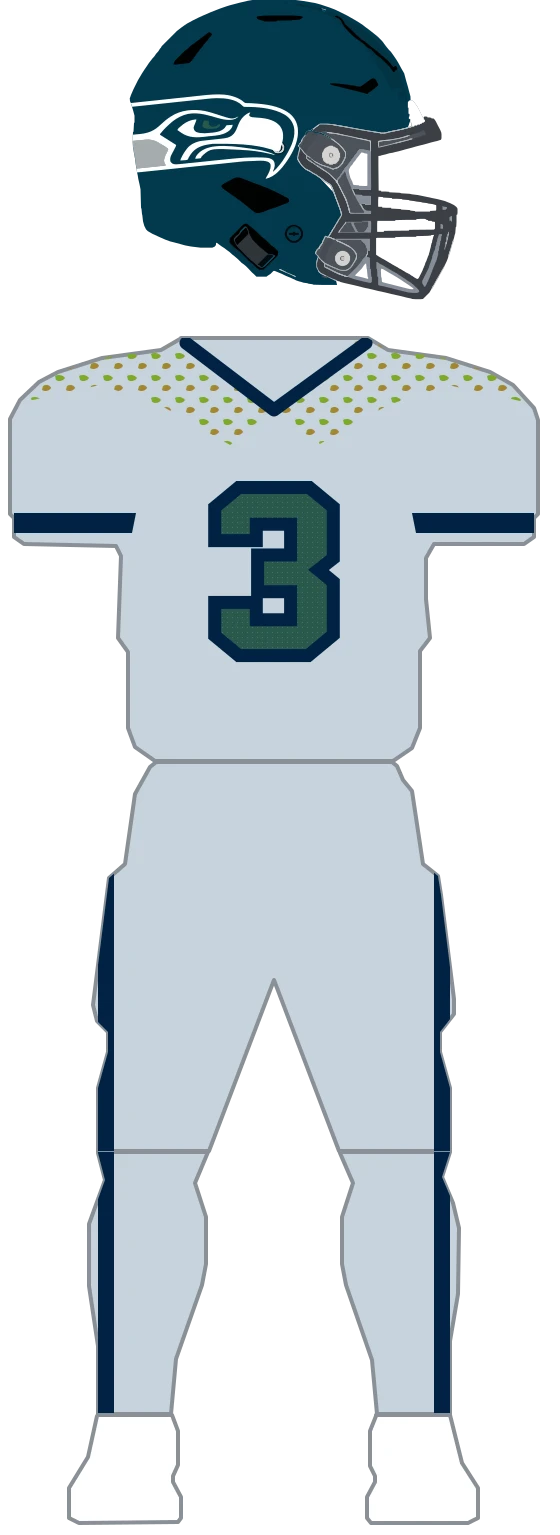
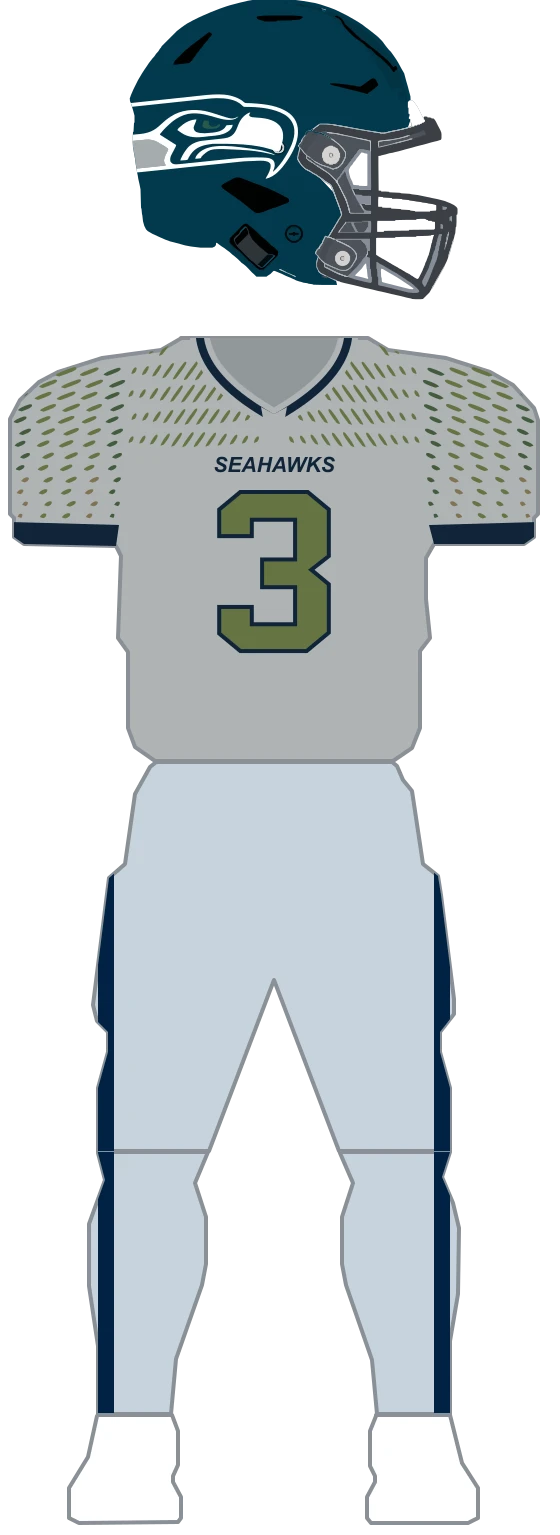
design(uniforms): refine Seahawks Rivalries jersey (DEP-518) (#852)

Changed region(s): [[0.0, 0.2143, 0.9714, 0.5205]]

diff --git a/web/lib/uniforms/teams/seahawks-rivalries-jersey.ts b/web/lib/uniforms/teams/seahawks-rivalries-jersey.ts
@@ -1,0 +1,106 @@
+// Approved Seahawks 2025 Rivalries jersey (DEP-518), reconstructed by Astra from
+// Luna's official-detail and retail-placement reference packet. Baked vector paths keep
+// rendering independent of fonts, authoring tools, and image-generation services.
+// Sources: https://www.seahawks.com/photos/2025-seahawks-nike-rivalries-uniform-detail-photos
+// https://www.seahawks.com/news/2025-seahawks-nike-rivalries-uniform-announcement
+// Hexes approximate the photographed Wolf Grey, College Navy, and reflective olive print;
+// the neck grey represents the shaded opening. These are approved flat-art approximations,
+// not official color specifications. The wordmark is outlined Arial Bold Italic, 21px;
+// the archive's canonical 3 intentionally omits the repeating 12 microtexture.
+import { JERSEY_NUMBER_THREE } from '../jersey-art';
+import type { UniformPart } from './parts';
+
+export const SEAHAWKS_RIVALRIES_JERSEY_PALETTE = {
+  rivalriesJerseyNeck: '#92989B',
+  rivalriesJerseyGrey: '#AFB3B5',
+  rivalriesJerseyNavy: '#102438',
+  rivalriesJerseyOlive: '#667443',
+  rivalriesJerseyGreen: '#435B3D',
+  rivalriesJerseyBronze: '#817350',
+};
+
+export const SEAHAWKS_RIVALRIES_JERSEY: UniformPart = {
+  base: 'rivalriesJerseyGrey',
+  layers: [
+    {
+      id: 'seahawks-rivalries-soundwave-0',
+      surface: 'jersey',
+      kind: 'fill',
+      clip: true,
+      fill: 'rivalriesJerseyOlive',
+      d: 'M148.51,396.19 Q148.36,393.53 150.88,390.31 Q153.19,388.31 153.49,389.81 Q154.25,391.68 151.74,394.90 Z M158.98,397.37 Q158.83,394.72 163.21,389.12 Q165.51,387.12 165.82,388.63 Q166.58,390.49 162.21,396.09 Z M169.07,399.05 Q168.93,396.40 175.92,387.45 Q178.22,385.44 178.53,386.95 Q179.29,388.82 172.30,397.76 Z M179.08,400.83 Q178.94,398.17 188.71,385.67 Q191.01,383.67 191.32,385.17 Q192.08,387.04 182.31,399.54 Z M151.54,419.14 Q151.40,416.49 153.85,413.35 Q156.15,411.35 156.46,412.86 Q157.22,414.72 154.77,417.86 Z M162.11,420.21 Q161.96,417.56 166.08,412.29 Q168.39,410.28 168.69,411.79 Q169.46,413.65 165.33,418.93 Z M172.33,421.72 Q172.18,419.07 178.66,410.78 Q180.97,408.77 181.27,410.28 Q182.03,412.14 175.56,420.43 Z M182.48,423.32 Q182.33,420.67 191.31,409.18 Q193.62,407.17 193.92,408.68 Q194.68,410.54 185.71,422.03 Z M192.84,424.65 Q192.70,421.99 203.75,407.85 Q206.05,405.85 206.36,407.35 Q207.12,409.22 196.07,423.36 Z M203.66,425.40 Q203.51,422.74 215.73,407.10 Q218.04,405.10 218.34,406.60 Q219.11,408.47 206.88,424.11 Z M215.06,425.40 Q214.91,422.74 227.13,407.10 Q229.44,405.10 229.74,406.60 Q230.51,408.47 218.28,424.11 Z M148.58,442.10 Q148.43,439.45 150.81,436.40 Q153.12,434.39 153.42,435.90 Q154.19,437.76 151.80,440.81 Z M159.23,443.05 Q159.09,440.40 162.95,435.45 Q165.26,433.44 165.57,434.95 Q166.33,436.81 162.46,441.76 Z M169.59,444.39 Q169.44,441.74 175.40,434.11 Q177.71,432.10 178.01,433.61 Q178.78,435.47 172.81,443.10 Z M179.88,445.81 Q179.73,443.16 187.91,432.68 Q190.22,430.68 190.52,432.19 Q191.29,434.05 183.10,444.53 Z M190.35,446.99 Q190.21,444.34 200.24,431.50 Q202.54,429.50 202.85,431.01 Q203.61,432.87 193.58,445.71 Z M201.23,447.66 Q201.09,445.01 212.16,430.84 Q214.46,428.83 214.77,430.34 Q215.53,432.21 204.46,446.37 Z M212.63,447.66 Q212.49,445.01 223.56,430.84 Q225.86,428.83 226.17,430.34 Q226.93,432.21 215.86,446.37 Z M224.55,446.99 Q224.41,444.34 234.44,431.50 Q236.74,429.50 237.05,431.01 Q237.81,432.87 227.78,445.71 Z M236.88,445.81 Q236.73,443.16 244.91,432.68 Q247.22,430.68 247.52,432.19 Q248.29,434.05 240.10,444.53 Z M249.39,444.39 Q249.24,441.74 255.20,434.11 Q257.51,432.10 257.81,433.61 Q258.58,435.47 252.61,443.10 Z M151.61,465.06 Q151.46,462.40 153.78,459.44 Q156.09,457.44 156.39,458.94 Q157.15,460.81 154.84,463.77 Z M162.36,465.89 Q162.21,463.24 165.83,458.61 Q168.14,456.60 168.44,458.11 Q169.20,459.98 165.59,464.60 Z M172.84,467.06 Q172.70,464.41 178.14,457.44 Q180.45,455.43 180.76,456.94 Q181.52,458.80 176.07,465.78 Z M183.27,468.31 Q183.12,465.65 190.52,456.19 Q192.82,454.19 193.13,455.69 Q193.89,457.56 186.50,467.02 Z M193.87,469.34 Q193.72,466.69 202.72,455.16 Q205.03,453.15 205.33,454.66 Q206.10,456.53 197.09,468.05 Z M204.81,469.92 Q204.66,467.27 214.58,454.58 Q216.89,452.57 217.19,454.08 Q217.95,455.94 208.04,468.64 Z M216.21,469.92 Q216.06,467.27 225.98,454.58 Q228.29,452.57 228.59,454.08 Q229.35,455.94 219.44,468.64 Z M228.07,469.34 Q227.92,466.69 236.92,455.16 Q239.23,453.15 239.53,454.66 Q240.30,456.53 231.29,468.05 Z M240.27,468.31 Q240.12,465.65 247.52,456.19 Q249.82,454.19 250.13,455.69 Q250.89,457.56 243.50,467.02 Z M252.64,467.06 Q252.50,464.41 257.94,457.44 Q260.25,455.43 260.56,456.94 Q261.32,458.80 255.87,465.78 Z M264.96,465.89 Q264.81,463.24 268.43,458.61 Q270.74,456.60 271.04,458.11 Q271.80,459.98 268.19,464.60 Z M277.01,465.06 Q276.86,462.40 279.18,459.44 Q281.49,457.44 281.79,458.94 Q282.55,460.81 280.24,463.77 Z M148.64,488.02 Q148.50,485.36 150.75,482.48 Q153.05,480.48 153.36,481.98 Q154.12,483.85 151.87,486.73 Z M159.49,488.73 Q159.34,486.07 162.70,481.77 Q165.01,479.77 165.31,481.27 Q166.08,483.14 162.71,487.44 Z M170.10,489.73 Q169.95,487.08 174.89,480.77 Q177.19,478.76 177.50,480.27 Q178.26,482.13 173.33,488.45 Z M180.67,490.80 Q180.52,488.15 187.12,479.70 Q189.43,477.69 189.73,479.20 Q190.50,481.07 183.89,489.51 Z M191.38,491.68 Q191.23,489.03 199.21,478.81 Q201.52,476.81 201.82,478.32 Q202.59,480.18 194.60,490.40 Z M202.39,492.18 Q202.24,489.53 211.00,478.31 Q213.31,476.31 213.61,477.82 Q214.38,479.68 205.61,490.90 Z M213.79,492.18 Q213.64,489.53 222.40,478.31 Q224.71,476.31 225.01,477.82 Q225.78,479.68 217.01,490.90 Z M225.58,491.68 Q225.43,489.03 233.41,478.81 Q235.72,476.81 236.02,478.32 Q236.79,480.18 228.80,490.40 Z M237.67,490.80 Q237.52,488.15 244.12,479.70 Q246.43,477.69 246.73,479.20 Q247.50,481.07 240.89,489.51 Z M249.90,489.73 Q249.75,487.08 254.69,480.77 Q256.99,478.76 257.30,480.27 Q258.06,482.13 253.13,488.45 Z M262.09,488.73 Q261.94,486.07 265.30,481.77 Q267.61,479.77 267.91,481.27 Q268.68,483.14 265.31,487.44 Z M274.04,488.02 Q273.90,485.36 276.15,482.48 Q278.45,480.48 278.76,481.98 Q279.52,483.85 277.27,486.73 Z M53.49,420.09 Q54.73,417.43 69.94,412.48 Q73.02,412.24 72.51,413.91 Q72.22,416.26 57.01,421.21 Z M75.54,420.40 Q76.78,417.74 93.90,412.17 Q96.97,411.93 96.46,413.60 Q96.17,415.95 79.06,421.52 Z M99.49,420.09 Q100.73,417.43 115.94,412.48 Q119.02,412.24 118.51,413.91 Q118.22,416.26 103.01,421.21 Z M59.01,431.92 Q60.25,429.26 74.42,424.65 Q77.50,424.41 76.99,426.08 Q76.70,428.43 62.53,433.04 Z M81.06,432.23 Q82.30,429.57 98.37,424.34 Q101.45,424.10 100.94,425.77 Q100.65,428.12 84.58,433.35 Z M105.01,431.92 Q106.25,429.26 120.42,424.65 Q123.50,424.41 122.99,426.08 Q122.70,428.43 108.53,433.04 Z M54.54,443.75 Q55.77,441.09 68.90,436.82 Q71.97,436.58 71.46,438.25 Q71.18,440.60 58.05,444.87 Z M76.58,444.06 Q77.82,441.40 92.85,436.51 Q95.92,436.27 95.42,437.94 Q95.13,440.29 80.10,445.18 Z M100.54,443.75 Q101.77,441.09 114.90,436.82 Q117.97,436.58 117.46,438.25 Q117.18,440.60 104.05,444.87 Z M60.06,455.58 Q61.30,452.92 73.37,448.99 Q76.45,448.75 75.94,450.42 Q75.65,452.77 63.58,456.70 Z M82.11,455.89 Q83.35,453.23 97.33,448.68 Q100.40,448.44 99.89,450.11 Q99.61,452.46 85.63,457.01 Z M106.06,455.58 Q107.30,452.92 119.37,448.99 Q122.45,448.75 121.94,450.42 Q121.65,452.77 109.58,456.70 Z M55.58,467.41 Q56.82,464.75 67.85,461.16 Q70.93,460.92 70.42,462.59 Q70.13,464.94 59.10,468.53 Z M77.63,467.72 Q78.87,465.06 91.80,460.85 Q94.88,460.61 94.37,462.28 Q94.08,464.63 81.15,468.84 Z M101.58,467.41 Q102.82,464.75 113.85,461.16 Q116.93,460.92 116.42,462.59 Q116.13,464.94 105.10,468.53 Z M61.10,479.24 Q62.34,476.58 72.33,473.33 Q75.40,473.09 74.90,474.76 Q74.61,477.11 64.62,480.36 Z M83.15,479.55 Q84.39,476.89 96.28,473.02 Q99.35,472.78 98.85,474.45 Q98.56,476.80 86.67,480.67 Z M107.10,479.24 Q108.34,476.58 118.33,473.33 Q121.40,473.09 120.90,474.76 Q120.61,477.11 110.62,480.36 Z M56.63,491.07 Q57.87,488.41 66.81,485.50 Q69.88,485.26 69.37,486.93 Q69.09,489.28 60.15,492.19 Z M78.68,491.38 Q79.91,488.72 90.76,485.19 Q93.83,484.95 93.32,486.62 Q93.04,488.97 82.19,492.50 Z M102.63,491.07 Q103.87,488.41 112.81,485.50 Q115.88,485.26 115.37,486.93 Q115.09,489.28 106.15,492.19 Z M62.15,502.90 Q63.39,500.24 71.28,497.67 Q74.36,497.43 73.85,499.10 Q73.56,501.45 65.67,504.02 Z M84.20,503.21 Q85.44,500.55 95.23,497.36 Q98.31,497.12 97.80,498.79 Q97.51,501.14 87.72,504.33 Z M108.15,502.90 Q109.39,500.24 117.28,497.67 Q120.36,497.43 119.85,499.10 Q119.56,501.45 111.67,504.02 Z M57.67,514.73 Q58.91,512.07 65.76,509.84 Q68.83,509.60 68.33,511.27 Q68.04,513.62 61.19,515.85 Z M79.72,515.04 Q80.96,512.38 89.71,509.53 Q92.79,509.29 92.28,510.96 Q91.99,513.31 83.24,516.16 Z M103.67,514.73 Q104.91,512.07 111.76,509.84 Q114.83,509.60 114.33,511.27 Q114.04,513.62 107.19,515.85 Z M63.20,526.56 Q64.43,523.90 70.24,522.01 Q73.31,521.77 72.80,523.44 Q72.52,525.79 66.71,527.68 Z M85.25,526.87 Q86.48,524.21 94.19,521.70 Q97.26,521.46 96.75,523.13 Q96.47,525.48 88.76,527.99 Z M58.72,538.39 Q59.96,535.73 64.71,534.18 Q67.79,533.94 67.28,535.61 Q66.99,537.96 62.24,539.51 Z M80.77,538.70 Q82.01,536.04 88.66,533.87 Q91.74,533.63 91.23,535.30 Q90.94,537.65 84.29,539.82 Z M64.24,550.22 Q65.48,547.56 69.19,546.35 Q72.26,546.11 71.76,547.78 Q71.47,550.13 67.76,551.34 Z M86.29,550.53 Q87.53,547.87 93.14,546.04 Q96.22,545.80 95.71,547.47 Q95.42,549.82 89.81,551.65 Z M59.77,562.05 Q61.00,559.39 63.67,558.52 Q66.74,558.28 66.23,559.95 Q65.95,562.30 63.28,563.17 Z M81.82,562.36 Q83.05,559.70 87.62,558.21 Q90.69,557.97 90.18,559.64 Q89.90,561.99 85.33,563.48 Z M439.49,396.19 Q439.64,393.53 437.12,390.31 Q434.81,388.31 434.51,389.81 Q433.75,391.68 436.26,394.90 Z M429.02,397.37 Q429.17,394.72 424.79,389.12 Q422.49,387.12 422.18,388.63 Q421.42,390.49 425.79,396.09 Z M418.93,399.05 Q419.07,396.40 412.08,387.45 Q409.78,385.44 409.47,386.95 Q408.71,388.82 415.70,397.76 Z M408.92,400.83 Q409.06,398.17 399.29,385.67 Q396.99,383.67 396.68,385.17 Q395.92,387.04 405.69,399.54 Z M436.46,419.14 Q436.60,416.49 434.15,413.35 Q431.85,411.35 431.54,412.86 Q430.78,414.72 433.23,417.86 Z M425.89,420.21 Q426.04,417.56 421.92,412.29 Q419.61,410.28 419.31,411.79 Q418.54,413.65 422.67,418.93 Z M415.67,421.72 Q415.82,419.07 409.34,410.78 Q407.03,408.77 406.73,410.28 Q405.97,412.14 412.44,420.43 Z M405.52,423.32 Q405.67,420.67 396.69,409.18 Q394.38,407.17 394.08,408.68 Q393.32,410.54 402.29,422.03 Z M395.16,424.65 Q395.30,421.99 384.25,407.85 Q381.95,405.85 381.64,407.35 Q380.88,409.22 391.93,423.36 Z M384.34,425.40 Q384.49,422.74 372.27,407.10 Q369.96,405.10 369.66,406.60 Q368.89,408.47 381.12,424.11 Z M372.94,425.40 Q373.09,422.74 360.87,407.10 Q358.56,405.10 358.26,406.60 Q357.49,408.47 369.72,424.11 Z M439.42,442.10 Q439.57,439.45 437.19,436.40 Q434.88,434.39 434.58,435.90 Q433.81,437.76 436.20,440.81 Z M428.77,443.05 Q428.91,440.40 425.05,435.45 Q422.74,433.44 422.43,434.95 Q421.67,436.81 425.54,441.76 Z M418.41,444.39 Q418.56,441.74 412.60,434.11 Q410.29,432.10 409.99,433.61 Q409.22,435.47 415.19,443.10 Z M408.12,445.81 Q408.27,443.16 400.09,432.68 Q397.78,430.68 397.48,432.19 Q396.71,434.05 404.90,444.53 Z M397.65,446.99 Q397.79,444.34 387.76,431.50 Q385.46,429.50 385.15,431.01 Q384.39,432.87 394.42,445.71 Z M386.77,447.66 Q386.91,445.01 375.84,430.84 Q373.54,428.83 373.23,430.34 Q372.47,432.21 383.54,446.37 Z M375.37,447.66 Q375.51,445.01 364.44,430.84 Q362.14,428.83 361.83,430.34 Q361.07,432.21 372.14,446.37 Z M363.45,446.99 Q363.59,444.34 353.56,431.50 Q351.26,429.50 350.95,431.01 Q350.19,432.87 360.22,445.71 Z M351.12,445.81 Q351.27,443.16 343.09,432.68 Q340.78,430.68 340.48,432.19 Q339.71,434.05 347.90,444.53 Z M338.61,444.39 Q338.76,441.74 332.80,434.11 Q330.49,432.10 330.19,433.61 Q329.42,435.47 335.39,443.10 Z M436.39,465.06 Q436.54,462.40 434.22,459.44 Q431.91,457.44 431.61,458.94 Q430.85,460.81 433.16,463.77 Z M425.64,465.89 Q425.79,463.24 422.17,458.61 Q419.86,456.60 419.56,458.11 Q418.80,459.98 422.41,464.60 Z M415.16,467.06 Q415.30,464.41 409.86,457.44 Q407.55,455.43 407.24,456.94 Q406.48,458.80 411.93,465.78 Z M404.73,468.31 Q404.88,465.65 397.48,456.19 Q395.18,454.19 394.87,455.69 Q394.11,457.56 401.50,467.02 Z M394.13,469.34 Q394.28,466.69 385.28,455.16 Q382.97,453.15 382.67,454.66 Q381.90,456.53 390.91,468.05 Z M383.19,469.92 Q383.34,467.27 373.42,454.58 Q371.11,452.57 370.81,454.08 Q370.05,455.94 379.96,468.64 Z M371.79,469.92 Q371.94,467.27 362.02,454.58 Q359.71,452.57 359.41,454.08 Q358.65,455.94 368.56,468.64 Z M359.93,469.34 Q360.08,466.69 351.08,455.16 Q348.77,453.15 348.47,454.66 Q347.70,456.53 356.71,468.05 Z M347.73,468.31 Q347.88,465.65 340.48,456.19 Q338.18,454.19 337.87,455.69 Q337.11,457.56 344.50,467.02 Z M335.36,467.06 Q335.50,464.41 330.06,457.44 Q327.75,455.43 327.44,456.94 Q326.68,458.80 332.13,465.78 Z M323.04,465.89 Q323.19,463.24 319.57,458.61 Q317.26,456.60 316.96,458.11 Q316.20,459.98 319.81,464.60 Z M310.99,465.06 Q311.14,462.40 308.82,459.44 Q306.51,457.44 306.21,458.94 Q305.45,460.81 307.76,463.77 Z M439.36,488.02 Q439.50,485.36 437.25,482.48 Q434.95,480.48 434.64,481.98 Q433.88,483.85 436.13,486.73 Z M428.51,488.73 Q428.66,486.07 425.30,481.77 Q422.99,479.77 422.69,481.27 Q421.92,483.14 425.29,487.44 Z M417.90,489.73 Q418.05,487.08 413.11,480.77 Q410.81,478.76 410.50,480.27 Q409.74,482.13 414.67,488.45 Z M407.33,490.80 Q407.48,488.15 400.88,479.70 Q398.57,477.69 398.27,479.20 Q397.50,481.07 404.11,489.51 Z M396.62,491.68 Q396.77,489.03 388.79,478.81 Q386.48,476.81 386.18,478.32 Q385.41,480.18 393.40,490.40 Z M385.61,492.18 Q385.76,489.53 377.00,478.31 Q374.69,476.31 374.39,477.82 Q373.62,479.68 382.39,490.90 Z M374.21,492.18 Q374.36,489.53 365.60,478.31 Q363.29,476.31 362.99,477.82 Q362.22,479.68 370.99,490.90 Z M362.42,491.68 Q362.57,489.03 354.59,478.81 Q352.28,476.81 351.98,478.32 Q351.21,480.18 359.20,490.40 Z M350.33,490.80 Q350.48,488.15 343.88,479.70 Q341.57,477.69 341.27,479.20 Q340.50,481.07 347.11,489.51 Z M338.10,489.73 Q338.25,487.08 333.31,480.77 Q331.01,478.76 330.70,480.27 Q329.94,482.13 334.87,488.45 Z M325.91,488.73 Q326.06,486.07 322.70,481.77 Q320.39,479.77 320.09,481.27 Q319.32,483.14 322.69,487.44 Z M313.96,488.02 Q314.10,485.36 311.85,482.48 Q309.55,480.48 309.24,481.98 Q308.48,483.85 310.73,486.73 Z M534.51,420.09 Q533.27,417.43 518.06,412.48 Q514.98,412.24 515.49,413.91 Q515.78,416.26 530.99,421.21 Z M512.46,420.40 Q511.22,417.74 494.10,412.17 Q491.03,411.93 491.54,413.60 Q491.83,415.95 508.94,421.52 Z M488.51,420.09 Q487.27,417.43 472.06,412.48 Q468.98,412.24 469.49,413.91 Q469.78,416.26 484.99,421.21 Z M528.99,431.92 Q527.75,429.26 513.58,424.65 Q510.50,424.41 511.01,426.08 Q511.30,428.43 525.47,433.04 Z M506.94,432.23 Q505.70,429.57 489.63,424.34 Q486.55,424.10 487.06,425.77 Q487.35,428.12 503.42,433.35 Z M482.99,431.92 Q481.75,429.26 467.58,424.65 Q464.50,424.41 465.01,426.08 Q465.30,428.43 479.47,433.04 Z M533.46,443.75 Q532.23,441.09 519.10,436.82 Q516.03,436.58 516.54,438.25 Q516.82,440.60 529.95,444.87 Z M511.42,444.06 Q510.18,441.40 495.15,436.51 Q492.08,436.27 492.58,437.94 Q492.87,440.29 507.90,445.18 Z M487.46,443.75 Q486.23,441.09 473.10,436.82 Q470.03,436.58 470.54,438.25 Q470.82,440.60 483.95,444.87 Z M527.94,455.58 Q526.70,452.92 514.63,448.99 Q511.55,448.75 512.06,450.42 Q512.35,452.77 524.42,456.70 Z M505.89,455.89 Q504.65,453.23 490.67,448.68 Q487.60,448.44 488.11,450.11 Q488.39,452.46 502.37,457.01 Z M481.94,455.58 Q480.70,452.92 468.63,448.99 Q465.55,448.75 466.06,450.42 Q466.35,452.77 478.42,456.70 Z M532.42,467.41 Q531.18,464.75 520.15,461.16 Q517.07,460.92 517.58,462.59 Q517.87,464.94 528.90,468.53 Z M510.37,467.72 Q509.13,465.06 496.20,460.85 Q493.12,460.61 493.63,462.28 Q493.92,464.63 506.85,468.84 Z M486.42,467.41 Q485.18,464.75 474.15,461.16 Q471.07,460.92 471.58,462.59 Q471.87,464.94 482.90,468.53 Z M526.90,479.24 Q525.66,476.58 515.67,473.33 Q512.60,473.09 513.10,474.76 Q513.39,477.11 523.38,480.36 Z M504.85,479.55 Q503.61,476.89 491.72,473.02 Q488.65,472.78 489.15,474.45 Q489.44,476.80 501.33,480.67 Z M480.90,479.24 Q479.66,476.58 469.67,473.33 Q466.60,473.09 467.10,474.76 Q467.39,477.11 477.38,480.36 Z M531.37,491.07 Q530.13,488.41 521.19,485.50 Q518.12,485.26 518.63,486.93 Q518.91,489.28 527.85,492.19 Z M509.32,491.38 Q508.09,488.72 497.24,485.19 Q494.17,484.95 494.68,486.62 Q494.96,488.97 505.81,492.50 Z M485.37,491.07 Q484.13,488.41 475.19,485.50 Q472.12,485.26 472.63,486.93 Q472.91,489.28 481.85,492.19 Z M525.85,502.90 Q524.61,500.24 516.72,497.67 Q513.64,497.43 514.15,499.10 Q514.44,501.45 522.33,504.02 Z M503.80,503.21 Q502.56,500.55 492.77,497.36 Q489.69,497.12 490.20,498.79 Q490.49,501.14 500.28,504.33 Z M479.85,502.90 Q478.61,500.24 470.72,497.67 Q467.64,497.43 468.15,499.10 Q468.44,501.45 476.33,504.02 Z M530.33,514.73 Q529.09,512.07 522.24,509.84 Q519.17,509.60 519.67,511.27 Q519.96,513.62 526.81,515.85 Z M508.28,515.04 Q507.04,512.38 498.29,509.53 Q495.21,509.29 495.72,510.96 Q496.01,513.31 504.76,516.16 Z M484.33,514.73 Q483.09,512.07 476.24,509.84 Q473.17,509.60 473.67,511.27 Q473.96,513.62 480.81,515.85 Z M524.80,526.56 Q523.57,523.90 517.76,522.01 Q514.69,521.77 515.20,523.44 Q515.48,525.79 521.29,527.68 Z M502.75,526.87 Q501.52,524.21 493.81,521.70 Q490.74,521.46 491.25,523.13 Q491.53,525.48 499.24,527.99 Z M529.28,538.39 Q528.04,535.73 523.29,534.18 Q520.21,533.94 520.72,535.61 Q521.01,537.96 525.76,539.51 Z M507.23,538.70 Q505.99,536.04 499.34,533.87 Q496.26,533.63 496.77,535.30 Q497.06,537.65 503.71,539.82 Z M523.76,550.22 Q522.52,547.56 518.81,546.35 Q515.74,546.11 516.24,547.78 Q516.53,550.13 520.24,551.34 Z M501.71,550.53 Q500.47,547.87 494.86,546.04 Q491.78,545.80 492.29,547.47 Q492.58,549.82 498.19,551.65 Z M528.23,562.05 Q527.00,559.39 524.33,558.52 Q521.26,558.28 521.77,559.95 Q522.05,562.30 524.72,563.17 Z M506.18,562.36 Q504.95,559.70 500.38,558.21 Q497.31,557.97 497.82,559.64 Q498.10,561.99 502.67,563.48 Z ',
+    },
+    {
+      id: 'seahawks-rivalries-soundwave-1',
+      surface: 'jersey',
+      kind: 'fill',
+      clip: true,
+      fill: 'rivalriesJerseyGreen',
+      d: 'M31.44,419.78 Q32.68,417.12 45.99,412.79 Q49.07,412.55 48.56,414.22 Q48.27,416.57 34.96,420.90 Z M123.44,419.78 Q124.68,417.12 137.99,412.79 Q141.07,412.55 140.56,414.22 Q140.27,416.57 126.96,420.90 Z M36.96,431.61 Q38.20,428.95 50.47,424.96 Q53.54,424.72 53.04,426.39 Q52.75,428.74 40.48,432.73 Z M128.96,431.61 Q130.20,428.95 142.47,424.96 Q145.54,424.72 145.04,426.39 Q144.75,428.74 132.48,432.73 Z M32.49,443.44 Q33.72,440.78 44.95,437.13 Q48.02,436.89 47.51,438.56 Q47.23,440.91 36.00,444.56 Z M124.49,443.44 Q125.72,440.78 136.95,437.13 Q140.02,436.89 139.51,438.56 Q139.23,440.91 128.00,444.56 Z M38.01,455.27 Q39.25,452.61 49.42,449.30 Q52.50,449.06 51.99,450.73 Q51.70,453.08 41.53,456.39 Z M130.01,455.27 Q131.25,452.61 141.42,449.30 Q144.50,449.06 143.99,450.73 Q143.70,453.08 133.53,456.39 Z M33.53,467.10 Q34.77,464.44 43.90,461.47 Q46.98,461.23 46.47,462.90 Q46.18,465.25 37.05,468.22 Z M125.53,467.10 Q126.77,464.44 135.90,461.47 Q138.98,461.23 138.47,462.90 Q138.18,465.25 129.05,468.22 Z M39.06,478.93 Q40.29,476.27 48.38,473.64 Q51.45,473.40 50.94,475.07 Q50.66,477.42 42.57,480.05 Z M131.06,478.93 Q132.29,476.27 140.38,473.64 Q143.45,473.40 142.94,475.07 Q142.66,477.42 134.57,480.05 Z M34.58,490.76 Q35.82,488.10 42.85,485.81 Q45.93,485.57 45.42,487.24 Q45.13,489.59 38.10,491.88 Z M126.58,490.76 Q127.82,488.10 134.85,485.81 Q137.93,485.57 137.42,487.24 Q137.13,489.59 130.10,491.88 Z M40.10,502.59 Q41.34,499.93 47.33,497.98 Q50.41,497.74 49.90,499.41 Q49.61,501.76 43.62,503.71 Z M132.10,502.59 Q133.34,499.93 139.33,497.98 Q142.41,497.74 141.90,499.41 Q141.61,501.76 135.62,503.71 Z M35.63,514.42 Q36.86,511.76 41.81,510.15 Q44.88,509.91 44.37,511.58 Q44.09,513.93 39.14,515.54 Z M127.63,514.42 Q128.86,511.76 133.81,510.15 Q136.88,509.91 136.37,511.58 Q136.09,513.93 131.14,515.54 Z M133.15,526.25 Q134.39,523.59 138.29,522.32 Q141.36,522.08 140.85,523.75 Q140.57,526.10 136.67,527.37 Z M128.67,538.08 Q129.91,535.42 132.76,534.49 Q135.84,534.25 135.33,535.92 Q135.04,538.27 132.19,539.20 Z M134.19,549.91 Q135.43,547.25 137.24,546.66 Q140.31,546.42 139.81,548.09 Q139.52,550.44 137.71,551.03 Z M129.62,561.77 Q130.86,559.11 131.81,558.80 Q134.89,558.56 134.38,560.23 Q134.09,562.58 133.14,562.89 Z M556.56,419.78 Q555.32,417.12 542.01,412.79 Q538.93,412.55 539.44,414.22 Q539.73,416.57 553.04,420.90 Z M464.56,419.78 Q463.32,417.12 450.01,412.79 Q446.93,412.55 447.44,414.22 Q447.73,416.57 461.04,420.90 Z M551.04,431.61 Q549.80,428.95 537.53,424.96 Q534.46,424.72 534.96,426.39 Q535.25,428.74 547.52,432.73 Z M459.04,431.61 Q457.80,428.95 445.53,424.96 Q442.46,424.72 442.96,426.39 Q443.25,428.74 455.52,432.73 Z M555.51,443.44 Q554.28,440.78 543.05,437.13 Q539.98,436.89 540.49,438.56 Q540.77,440.91 552.00,444.56 Z M463.51,443.44 Q462.28,440.78 451.05,437.13 Q447.98,436.89 448.49,438.56 Q448.77,440.91 460.00,444.56 Z M549.99,455.27 Q548.75,452.61 538.58,449.30 Q535.50,449.06 536.01,450.73 Q536.30,453.08 546.47,456.39 Z M457.99,455.27 Q456.75,452.61 446.58,449.30 Q443.50,449.06 444.01,450.73 Q444.30,453.08 454.47,456.39 Z M554.47,467.10 Q553.23,464.44 544.10,461.47 Q541.02,461.23 541.53,462.90 Q541.82,465.25 550.95,468.22 Z M462.47,467.10 Q461.23,464.44 452.10,461.47 Q449.02,461.23 449.53,462.90 Q449.82,465.25 458.95,468.22 Z M548.94,478.93 Q547.71,476.27 539.62,473.64 Q536.55,473.40 537.06,475.07 Q537.34,477.42 545.43,480.05 Z M456.94,478.93 Q455.71,476.27 447.62,473.64 Q444.55,473.40 445.06,475.07 Q445.34,477.42 453.43,480.05 Z M553.42,490.76 Q552.18,488.10 545.15,485.81 Q542.07,485.57 542.58,487.24 Q542.87,489.59 549.90,491.88 Z M461.42,490.76 Q460.18,488.10 453.15,485.81 Q450.07,485.57 450.58,487.24 Q450.87,489.59 457.90,491.88 Z M547.90,502.59 Q546.66,499.93 540.67,497.98 Q537.59,497.74 538.10,499.41 Q538.39,501.76 544.38,503.71 Z M455.90,502.59 Q454.66,499.93 448.67,497.98 Q445.59,497.74 446.10,499.41 Q446.39,501.76 452.38,503.71 Z M552.37,514.42 Q551.14,511.76 546.19,510.15 Q543.12,509.91 543.63,511.58 Q543.91,513.93 548.86,515.54 Z M460.37,514.42 Q459.14,511.76 454.19,510.15 Q451.12,509.91 451.63,511.58 Q451.91,513.93 456.86,515.54 Z M454.85,526.25 Q453.61,523.59 449.71,522.32 Q446.64,522.08 447.15,523.75 Q447.43,526.10 451.33,527.37 Z M459.33,538.08 Q458.09,535.42 455.24,534.49 Q452.16,534.25 452.67,535.92 Q452.96,538.27 455.81,539.20 Z M453.81,549.91 Q452.57,547.25 450.76,546.66 Q447.69,546.42 448.19,548.09 Q448.48,550.44 450.29,551.03 Z M458.38,561.77 Q457.14,559.11 456.19,558.80 Q453.11,558.56 453.62,560.23 Q453.91,562.58 454.86,562.89 Z ',
+    },
+    {
+      id: 'seahawks-rivalries-soundwave-2',
+      surface: 'jersey',
+      kind: 'fill',
+      clip: true,
+      fill: 'rivalriesJerseyBronze',
+      d: 'M41.15,526.25 Q42.39,523.59 46.29,522.32 Q49.36,522.08 48.85,523.75 Q48.57,526.10 44.67,527.37 Z M109.20,526.56 Q110.43,523.90 116.24,522.01 Q119.31,521.77 118.80,523.44 Q118.52,525.79 112.71,527.68 Z M36.67,538.08 Q37.91,535.42 40.76,534.49 Q43.84,534.25 43.33,535.92 Q43.04,538.27 40.19,539.20 Z M104.72,538.39 Q105.96,535.73 110.71,534.18 Q113.79,533.94 113.28,535.61 Q112.99,537.96 108.24,539.51 Z M42.19,549.91 Q43.43,547.25 45.24,546.66 Q48.31,546.42 47.81,548.09 Q47.52,550.44 45.71,551.03 Z M110.24,550.22 Q111.48,547.56 115.19,546.35 Q118.26,546.11 117.76,547.78 Q117.47,550.13 113.76,551.34 Z M37.62,561.77 Q38.86,559.11 39.81,558.80 Q42.89,558.56 42.38,560.23 Q42.09,562.58 41.14,562.89 Z M105.77,562.05 Q107.00,559.39 109.67,558.52 Q112.74,558.28 112.23,559.95 Q111.95,562.30 109.28,563.17 Z M546.85,526.25 Q545.61,523.59 541.71,522.32 Q538.64,522.08 539.15,523.75 Q539.43,526.10 543.33,527.37 Z M478.80,526.56 Q477.57,523.90 471.76,522.01 Q468.69,521.77 469.20,523.44 Q469.48,525.79 475.29,527.68 Z M551.33,538.08 Q550.09,535.42 547.24,534.49 Q544.16,534.25 544.67,535.92 Q544.96,538.27 547.81,539.20 Z M483.28,538.39 Q482.04,535.73 477.29,534.18 Q474.21,533.94 474.72,535.61 Q475.01,537.96 479.76,539.51 Z M545.81,549.91 Q544.57,547.25 542.76,546.66 Q539.69,546.42 540.19,548.09 Q540.48,550.44 542.29,551.03 Z M477.76,550.22 Q476.52,547.56 472.81,546.35 Q469.74,546.11 470.24,547.78 Q470.53,550.13 474.24,551.34 Z M550.38,561.77 Q549.14,559.11 548.19,558.80 Q545.11,558.56 545.62,560.23 Q545.91,562.58 546.86,562.89 Z M482.23,562.05 Q481.00,559.39 478.33,558.52 Q475.26,558.28 475.77,559.95 Q476.05,562.30 478.72,563.17 Z ',
+    },
+    {
+      id: 'seahawks-rivalries-cuffs',
+      surface: 'jersey',
+      kind: 'fill',
+      clip: true,
+      fill: 'rivalriesJerseyNavy',
+      d: 'M30,567 L139,570 L136,591 L44,589 L34,582 L34,563 Z M449,570 L558,567 L558,559 L554,563 L554,582 L544,589 L454,589 Z',
+    },
+    {
+      id: 'seahawks-rivalries-wordmark',
+      surface: 'jersey',
+      kind: 'fill',
+      clip: true,
+      fill: 'rivalriesJerseyNavy',
+      d: 'M234.66 512.13L237.6 511.98Q237.67 513.38 238.09 513.87Q238.76 514.67 240.59 514.67Q242.1 514.67 242.78 514.13Q243.46 513.59 243.46 512.82Q243.46 512.15 242.9 511.69Q242.52 511.35 240.77 510.59Q239.02 509.83 238.21 509.32Q237.41 508.82 236.95 508.01Q236.49 507.2 236.49 506.11Q236.49 504.21 237.86 502.96Q239.23 501.71 241.84 501.71Q244.48 501.71 245.93 502.95Q247.39 504.19 247.53 506.25L244.57 506.39Q244.45 505.31 243.79 504.74Q243.12 504.16 241.82 504.16Q240.54 504.16 239.99 504.61Q239.44 505.06 239.44 505.75Q239.44 506.4 239.94 506.82Q240.44 507.25 242.17 508Q244.76 509.11 245.47 509.81Q246.52 510.84 246.52 512.45Q246.52 514.44 244.95 515.85Q243.38 517.26 240.57 517.26Q238.63 517.26 237.21 516.61Q235.79 515.95 235.2 514.8Q234.62 513.64 234.66 512.13ZM248.2 517L251.33 501.97L262.48 501.97L261.96 504.48L253.91 504.48L253.19 507.89L260.97 507.89L260.45 510.41L252.67 510.41L251.72 514.49L260.47 514.49L259.94 517ZM272.05 513.68L266.09 513.68L264.28 517L261.11 517L269.61 501.97L273.04 501.97L275.48 517L272.55 517ZM271.67 511.18L270.8 505.13L267.17 511.18ZM287.73 510.28L281.92 510.28L280.52 517L277.42 517L280.57 501.97L283.65 501.97L282.44 507.77L288.26 507.77L289.48 501.97L292.56 501.97L289.43 517L286.33 517ZM302.38 513.68L296.42 513.68L294.62 517L291.44 517L299.94 501.97L303.37 501.97L305.81 517L302.88 517ZM302 511.18L301.13 505.13L297.5 511.18ZM320.83 517L317.71 517L317.37 506.01L311.89 517L308.7 517L308.14 501.97L311.17 501.97L311.3 512.49L316.46 501.97L319.81 501.97L320.16 512.38L325.11 501.97L328.1 501.97ZM326.33 517L329.47 501.97L332.56 501.97L331.23 508.36L338.18 501.97L342.33 501.97L335.58 507.86L340.53 517L337.04 517L333.32 509.84L330.4 512.4L329.44 517ZM342 512.13L344.94 511.98Q345 513.38 345.42 513.87Q346.1 514.67 347.93 514.67Q349.44 514.67 350.12 514.13Q350.8 513.59 350.8 512.82Q350.8 512.15 350.24 511.69Q349.85 511.35 348.1 510.59Q346.36 509.83 345.55 509.32Q344.75 508.82 344.29 508.01Q343.82 507.2 343.82 506.11Q343.82 504.21 345.2 502.96Q346.57 501.71 349.18 501.71Q351.82 501.71 353.27 502.95Q354.72 504.19 354.87 506.25L351.9 506.39Q351.79 505.31 351.12 504.74Q350.46 504.16 349.16 504.16Q347.87 504.16 347.33 504.61Q346.78 505.06 346.78 505.75Q346.78 506.4 347.28 506.82Q347.78 507.25 349.5 508Q352.1 509.11 352.81 509.81Q353.86 510.84 353.86 512.45Q353.86 514.44 352.29 515.85Q350.71 517.26 347.9 517.26Q345.97 517.26 344.55 516.61Q343.13 515.95 342.54 514.8Q341.96 513.64 342 512.13Z',
+    },
+    {
+      id: 'seahawks-rivalries-neck-opening',
+      surface: 'collar',
+      kind: 'fill',
+      clip: true,
+      fill: 'rivalriesJerseyNeck',
+      d: 'M220,383 H368 C364,415 333,442 294,464 C255,442 224,415 220,383 Z',
+    },
+    {
+      id: 'seahawks-rivalries-collar-edge',
+      surface: 'collar',
+      kind: 'stroke',
+      clip: true,
+      stroke: 'rivalriesJerseyGrey',
+      strokeWidth: 20,
+      d: 'M220,383 C224,415 255,442 294,464 C333,442 364,415 368,383',
+    },
+    {
+      id: 'generic-collar',
+      surface: 'collar',
+      kind: 'stroke',
+      clip: true,
+      stroke: 'rivalriesJerseyNavy',
+      strokeWidth: 8,
+      d: 'M220,383 C224,415 255,442 291,462 M297,462 C333,442 364,415 368,383',
+    },
+    {
+      id: 'seahawks-rivalries-collar-placket',
+      surface: 'collar',
+      kind: 'fill',
+      clip: true,
+      fill: 'rivalriesJerseyGrey',
+      d: 'M281,452 L294,459 L307,452 L302,479 L286,479 Z',
+    },
+  ],
+  number: {
+    fill: 'rivalriesJerseyOlive',
+    outline: 'rivalriesJerseyNavy',
+    outlineWidth: 8,
+    glyphPath: JERSEY_NUMBER_THREE,
+  },
+};

diff --git a/web/lib/uniforms/teams/provenance.ts b/web/lib/uniforms/teams/provenance.ts
@@ -68,38 +68,32 @@ export const UNSOURCED_PROVENANCE: ConstructionProvenance = {
   fidelity: 'unverified',
 };
 
-// Seattle's 2025 Rivalries kit is the one construction with a written evidence trail: the
-// 2026-09-13 authoring-model test ran a cheaper model against a product photo and the GUD sheet,
-// then listed exactly which features matched and which stayed coarse. Facts below are
-// transcribed from that record; no source beyond those two is asserted.
+// Approved 2026-09-21: Luna collected sources; Astra authored the jersey and Cooper
+// approved its final collar/cuff refinement. Approval does not imply exact material fidelity.
 const SEAHAWKS_RIVALRIES_2025: ConstructionProvenance = {
   sources: [
-    'Gridiron Uniform Database — 2025 Seahawks Rivalries sheet (layout and structure)',
-    '2025 Seahawks Rivalries product photo (external reference; facts only, never committed)',
+    'https://www.seahawks.com/news/2025-seahawks-nike-rivalries-uniform-announcement',
+    'https://www.seahawks.com/photos/2025-seahawks-nike-rivalries-uniform-detail-photos',
+    'https://static.clubs.nfl.com/image/upload/t_new_photo_album/seahawks/rwdy8rqamnkhcywmir9f.jpg',
+    'https://fanatics.frgimages.com/seattle-seahawks/mens-nike-jaxon-smith-njigba-gray-seattle-seahawks-rivalries-collection-stitched-limited-jersey_ss5_p-202666467%2Bpv-1%2Bu-erexofgxenl71aa9tlks%2Bv-md1ngazh9geawio6wwre.jpg?_hv=2&w=1018',
   ],
   observed: [
-    'Printed green-to-copper dash motif reads across the shoulders and sleeves; the center chest panel is plain.',
-    'Body reads as a darker wolf grey than the catalog render; the row used #C6D3DC.',
-    'Navy V-collar with a knit insert.',
-    'Sleeve cuffs span the full sleeve hem as bands.',
-    'Numeral reads as a muted, desaturated grey-green print, not the jersey action green.',
-    'Navy SEAHAWKS wordmark, positioned from the flat GUD sheet.',
+    'Soundwave dash motif uses long diagonal yoke marks and shorter sleeve lozenges; the central chest is plain.',
+    'Wolf Grey body, navy outlined green/olive numbers, and navy SEAHAWKS wordmark.',
+    'Curved V collar has grey edges, a navy inset, and a front insert; navy cuffs meet the sleeve hems.',
   ],
   inferred: [
-    'Helmet construction reuses the existing teal-hawk shell and its three decal layers; a jersey reference cannot show a helmet.',
-    'Dash-field tile pitch, rotation, and the shoulder-weighted fade are reconstructed parameters, not measured values.',
+    'Mark lengths, spacing, and collar curves are reconstructed on the shared flat mannequin, not measured garment patterns.',
+    'Helmet and pants retain the existing construction; this approval covers the jersey only.',
   ],
   approximations: [
-    'Dash field is a single parametric tile with a green-to-copper gradient; the reference print is finer, denser, and directional.',
-    'Wordmark is outlined Arial Bold (a proxy for Seattle custom letterforms) so rasters never depend on an installed font.',
-    'Numeral uses the archive single-glyph convention, not the worn number, and its micro-print fill is omitted.',
-    'Manufacturer marks (Nike swoosh, NFL shield, jock tag) are omitted by design.',
+    'Muted olive, green, and bronze flat colors approximate light-reactive material; hexes are visual estimates.',
+    'Outlined Arial Bold Italic substitutes the custom team wordmark without a runtime font dependency.',
+    'The canonical archive 3 replaces the worn number; repeating 12 microtexture and manufacturer/league marks are omitted.',
   ],
   unresolved: [
-    'Motif pitch and density: the authored tile reads coarser than the reference dash field.',
-    'Numeral fill: the muted grey-green print is unresolved; the authored pine reads dark.',
-    'Body grey: unresolved tone mismatch, authored lighter and cooler than the reference.',
-    'Sleeve silhouette: the shared mannequin sleeve is bulkier than the fitted reference garment.',
+    'Exact soundwave bar counts, custom lettering, and iridescence remain approximated.',
+    'Helmet and pants were not audited in this jersey-only pass.',
   ],
   review: { status: 'reviewed', approved: true },
   fidelity: 'approximate',

diff --git a/web/lib/uniforms/teams/seahawks.parts.ts b/web/lib/uniforms/teams/seahawks.parts.ts
@@ -47,6 +47,11 @@ import {
 } from './parts';
 import type { UniformSurface } from './types';
 
+import {
+  SEAHAWKS_RIVALRIES_JERSEY,
+  SEAHAWKS_RIVALRIES_JERSEY_PALETTE,
+} from './seahawks-rivalries-jersey';
+
 const COLLAR_PATH = 'M206,388 L294,455 L386,388';
 
 const fill = (id: string, surface: UniformSurface, d: string, color: string): PartLayer => ({
@@ -105,29 +110,10 @@ const HELMET_1976_SILVER: UniformPart = {
 
 export const SEAHAWKS_PARTS: TeamPartsDefinition = {
   teamId: 'seahawks',
-  patterns: {
-    rivalDashes: {
-      width: 24,
-      height: 22,
-      gradient: {
-        x1: 0,
-        y1: 0,
-        x2: 24,
-        y2: 22,
-        stops: [
-          { offset: 0, color: 'green' },
-          { offset: 1, color: 'rivalriesCopper' },
-        ],
-      },
-      shapes: [
-        { d: 'M3,3 C6,1 11,2 13,5 C11,8 7,9 4,7 Z', fill: 'green' },
-        { d: 'M15,13 C18,11 22,12 23,15 C21,18 17,19 14,17 Z', fill: 'green' },
-      ],
-    },
-  },
   // Jersey hexes from the curated rows (teamcolorcodes); crownWedge is the re-based tonal step
   // documented in seahawks.ts, not a sampled hex.
   palette: {
+    ...SEAHAWKS_RIVALRIES_JERSEY_PALETTE,
     navy: '#002244',
     green: '#69BE28',
     // Wolf Grey is a construction fact of the modern kit, not a runtime body color: an
@@ -141,7 +127,6 @@ export const SEAHAWKS_PARTS: TeamPartsDefinition = {
     rivalriesTeal: '#023A4D',
     rivalriesSilver: '#C6D3DC',
     rivalriesPine: '#29594C',
-    rivalriesCopper: '#B87333',
     royal76: '#003087',
     green76: '#046A38',
     silver76: '#8A8D8F',
@@ -217,25 +202,7 @@ export const SEAHAWKS_PARTS: TeamPartsDefinition = {
       ],
       number: { fill: 'readable-on-body', outline: 'royal76', outlineWidth: 26 },
     },
-    // Rivalries is a print, not a construction: no shoulder marks. It keeps the generic sleeve
-    // stripes and collar, which the flat form inherited implicitly.
-    'rivalries-silver': {
-      base: 'rivalriesSilver',
-      layers: [
-        fromGeneric('generic-sleeve-stripe-left', 'navy'),
-        fromGeneric('generic-sleeve-stripe-right', 'navy'),
-        fromGeneric('generic-collar', 'navy'),
-        {
-          id: 'seahawks-rivalries-dash-field',
-          surface: 'jersey',
-          d: 'M30,383 H210 L294,455 L250,490 L180,450 L120,430 L30,450 Z M558,383 H378 L294,455 L338,490 L408,450 L468,430 L558,450 Z',
-          clip: true,
-          kind: 'fill',
-          fill: 'pattern:rivalDashes',
-        },
-      ],
-      number: { fill: 'rivalriesPine', outline: 'navy', outlineWidth: 26 },
-    },
+    'rivalries-silver': SEAHAWKS_RIVALRIES_JERSEY,
   },
   pants: {
     // Home keeps the generic stripe pair in green.

diff --git a/web/lib/uniforms/art.test.ts b/web/lib/uniforms/art.test.ts
@@ -72,18 +72,28 @@ describe('renderUniformThumbSVG', () => {
       'seahawks-rivalries-2025',
       getTeamUniformDefinition('seahawks')
     );
-    expect(svg).toContain('fill="#C6D3DC"');
+    expect(svg).toContain('fill="#AFB3B5"');
   });
 
-  it('emits the Rivalries dash pattern and applies it to the jersey field', () => {
+  it('renders the approved Rivalries soundwaves, collar, cuffs, and outlined wordmark', () => {
     const svg = renderUniformThumbSVG(
       seahawksRivalries,
       'seahawks-rivalries-2025',
       getTeamUniformDefinition('seahawks')
     );
-    expect(svg).toContain('data-layer-id="seahawks-rivalries-dash-field"');
-    expect(svg).toContain('pattern-rivalDashes');
-    expect(svg).toContain('gradient-rivalDashes');
+    for (const detail of [
+      'soundwave-0',
+      'soundwave-1',
+      'soundwave-2',
+      'cuffs',
+      'wordmark',
+      'neck-opening',
+      'collar-placket',
+    ]) {
+      expect(svg).toContain(`data-layer-id="seahawks-rivalries-${detail}"`);
+    }
+    expect(svg).not.toContain('data-layer-id="seahawks-rivalries-dash-field"');
+    expect(svg).not.toContain('data-layer-id="generic-sleeve-stripe-left"');
   });
 
   it('uses vector numerals without a rasterizer font dependency', () => {
